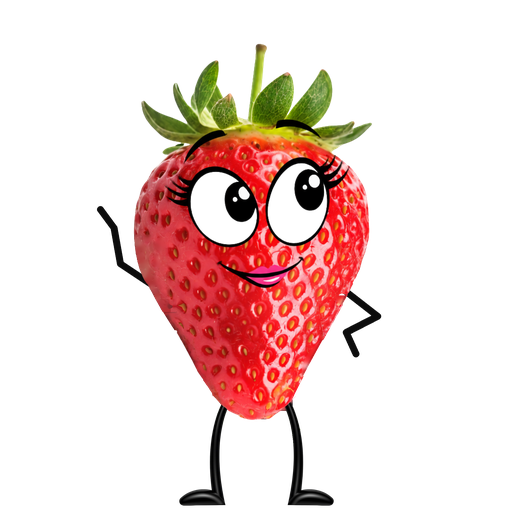
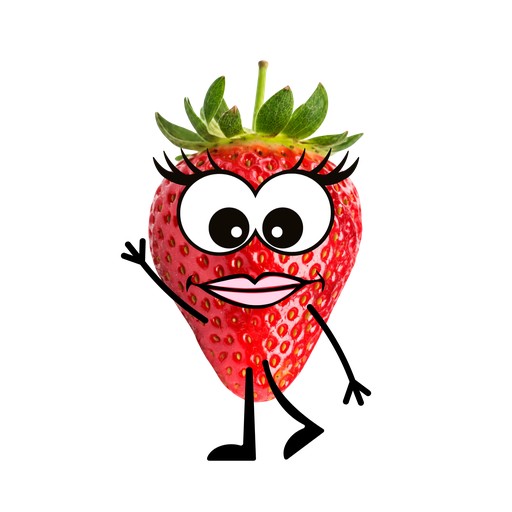
Ms. Straw-ccato's new look everywhere, and she plays real piano in practice
Her founder-drawn 2026-11-05 still (wave, hip-sway, slim three-notch
limbs) replaces the avatar art everywhere avatar_strawberry renders:
profile chips and pickers, Home, Ensemble stage and dressing room,
Tour map, Market, fan stage. The old placeholder SVG is deleted so no
stale version of her remains anywhere.

In the practice session she now sits at her grape-footed piano
(founder's layered scene): still while the room is quiet, and when the
mic's sound gate (_soundNow) hears real playing she eases into motion
over 0.8 s — arms alternating about their drawn attachment points, the
approved traveling-wave music (shipped as a transparent animated WebP)
pouring from the lid — and settles back to still in the quiet. Other
avatars keep the existing sway; PerformingAvatar gains a `playing`
flag fed by the sound gate.

Rules this follows are recorded in claude/avatar-animation-rules.md.

Claude-Session: https://claude.ai/code/session_01QFxDJg41b2sgBigVhhRjMa

Changed region(s): [[0.1875, 0.0625, 0.75, 1.0]]

diff --git a/app/lib/widgets/strawccato_piano.dart b/app/lib/widgets/strawccato_piano.dart
@@ -1,0 +1,114 @@
+import 'dart:math' as math;
+
+import 'package:flutter/material.dart';
+
+/// Ms. Straw-ccato at her grape-footed piano (founder art, 2026-11-05).
+///
+/// Layered cutout animation per claude/avatar-animation-rules.md: the
+/// armless scene is the base, each arm rotates about its own drawn
+/// attachment point (so it can never detach), and the music is the
+/// approved traveling-wave render shipped as a transparent animated WebP.
+///
+/// [playing] eases the whole scene between still and playing over ~0.8 s —
+/// arms and music wake together, exactly like the practice screen's
+/// sound gate.
+class StrawccatoPiano extends StatefulWidget {
+  const StrawccatoPiano({super.key, required this.playing, this.height = 96});
+
+  final bool playing;
+  final double height;
+
+  @override
+  State<StrawccatoPiano> createState() => _StrawccatoPianoState();
+}
+
+class _StrawccatoPianoState extends State<StrawccatoPiano>
+    with TickerProviderStateMixin {
+  // Scene canvas the layers were exported on, and the measured pivots
+  // (fractions of that canvas — the arms' drawn attachment points).
+  static const _w = 1200.0, _h = 1230.0;
+  static const _pivotUpper = Offset(0.2768 * _w, 0.5519 * _h);
+  static const _pivotLower = Offset(0.3003 * _w, 0.5791 * _h);
+  static const _musicRect =
+      Rect.fromLTWH(0.6149 * _w, 0.0109 * _h, 0.374 * _w, 0.3587 * _h);
+
+  late final AnimationController _beat = AnimationController(
+      vsync: this, duration: const Duration(milliseconds: 1000))
+    ..repeat();
+  late final AnimationController _wake = AnimationController(
+      vsync: this,
+      duration: const Duration(milliseconds: 800),
+      value: widget.playing ? 1 : 0);
+
+  @override
+  void didUpdateWidget(covariant StrawccatoPiano old) {
+    super.didUpdateWidget(old);
+    if (widget.playing && !old.playing) _wake.forward();
+    if (!widget.playing && old.playing) _wake.reverse();
+  }
+
+  @override
+  void dispose() {
+    _beat.dispose();
+    _wake.dispose();
+    super.dispose();
+  }
+
+  @override
+  Widget build(BuildContext context) {
+    return SizedBox(
+      height: widget.height,
+      child: AspectRatio(
+        aspectRatio: _w / _h,
+        child: AnimatedBuilder(
+          animation: Listenable.merge([_beat, _wake]),
+          builder: (context, _) {
+            final e = Curves.easeInOut.transform(_wake.value);
+            final t = _beat.value;
+            final upper =
+                e * 6.0 * math.sin(2 * math.pi * (2 * t)) * math.pi / 180;
+            final lower =
+                e * 6.0 * math.sin(2 * math.pi * (2 * t + 0.5)) * math.pi / 180;
+            return LayoutBuilder(builder: (context, c) {
+              final s = c.maxWidth / _w;
+              Widget arm(String name, Offset pivot, double ang) =>
+                  Positioned.fill(
+                    child: Transform(
+                      transform: Matrix4.identity()
+                        ..translate(pivot.dx * s, pivot.dy * s)
+                        ..rotateZ(ang)
+                        ..translate(-pivot.dx * s, -pivot.dy * s),
+                      child: Image.asset('assets/art/piano/$name',
+                          fit: BoxFit.fill),
+                    ),
+                  );
+              return Stack(children: [
+                Positioned.fill(
+                  child: Image.asset('assets/art/piano/straw_piano_base.png',
+                      fit: BoxFit.fill),
+                ),
+                // The music pours out of the lid only while there's sound.
+                if (e > 0.01)
+                  Positioned(
+                    left: _musicRect.left * s,
+                    top: _musicRect.top * s,
+                    width: _musicRect.width * s,
+                    height: _musicRect.height * s,
+                    child: Opacity(
+                      opacity: e,
+                      child: Image.asset(
+                          'assets/art/piano/straw_piano_music.webp',
+                          fit: BoxFit.fill,
+                          gaplessPlayback: true),
+                    ),
+                  ),
+                arm('straw_piano_arm_lower.png', _pivotLower, lower),
+                arm('straw_piano_arm_upper.png', _pivotUpper, upper),
+              ]);
+            });
+          },
+        ),
+      ),
+    );
+  }
+}

diff --git a/app/lib/widgets/performing_avatar.dart b/app/lib/widgets/performing_avatar.dart
@@ -6,6 +6,7 @@ import 'package:flutter_riverpod/flutter_riverpod.dart';
 import '../state/app_state.dart';
 import '../state/wardrobe.dart';
 import 'dressed_avatar.dart';
+import 'strawccato_piano.dart';
 
 /// Instrument props the avatar can play (placeholder art — each swaps to a
 /// drawn piece with the art pass, same keys).
@@ -45,9 +46,15 @@ String _propFor(String? instrument) {
 /// a gentle 3/4-time sway, the instrument at their hands, and music notes
 /// floating up while they play.
 class PerformingAvatar extends ConsumerStatefulWidget {
-  const PerformingAvatar({super.key, this.size = 84, this.instrument});
+  const PerformingAvatar(
+      {super.key, this.size = 84, this.instrument, this.playing = true});
 
   final double size;
+
+  /// Whether real sound is being made right now (the practice screen's
+  /// mic gate). Ms. Straw-ccato's piano scene eases between still and
+  /// playing on this; other avatars keep their usual sway.
+  final bool playing;
 
   /// The instrument being practiced; falls back to the student's first
   /// listed instrument, then to a plain music note.
@@ -83,6 +90,11 @@ class _PerformingAvatarState extends ConsumerState<PerformingAvatar>
     final outfit = sid == null
         ? const <String>[]
         : ref.watch(wardrobeProvider(sid)).outfitFor(wornKey);
+    // Ms. Straw-ccato performs at her own piano (founder art, JJ-021 era):
+    // still while the room is quiet, playing while sound is detected.
+    if (wornKey == 'strawberry') {
+      return StrawccatoPiano(playing: widget.playing, height: widget.size * 1.35);
+    }
     final instruments = (active?['instruments'] as List?)?.cast<String>();
     final prop = _propFor(widget.instrument ??
         (instruments != null && instruments.isNotEmpty

diff --git a/app/lib/screens/practice/practice_session_screen.dart b/app/lib/screens/practice/practice_session_screen.dart
@@ -1202,7 +1202,7 @@ class _PracticeSessionScreenState extends ConsumerState<PracticeSessionScreen>
           children: [
             // The kid's own avatar performs on their instrument while the
             // timer listens (JJ-012/JJ-014).
-            const PerformingAvatar(size: 76),
+            PerformingAvatar(size: 76, playing: _soundNow),
             const SizedBox(width: 12),
             Text(_fmt(_activeSeconds),
                 style:
